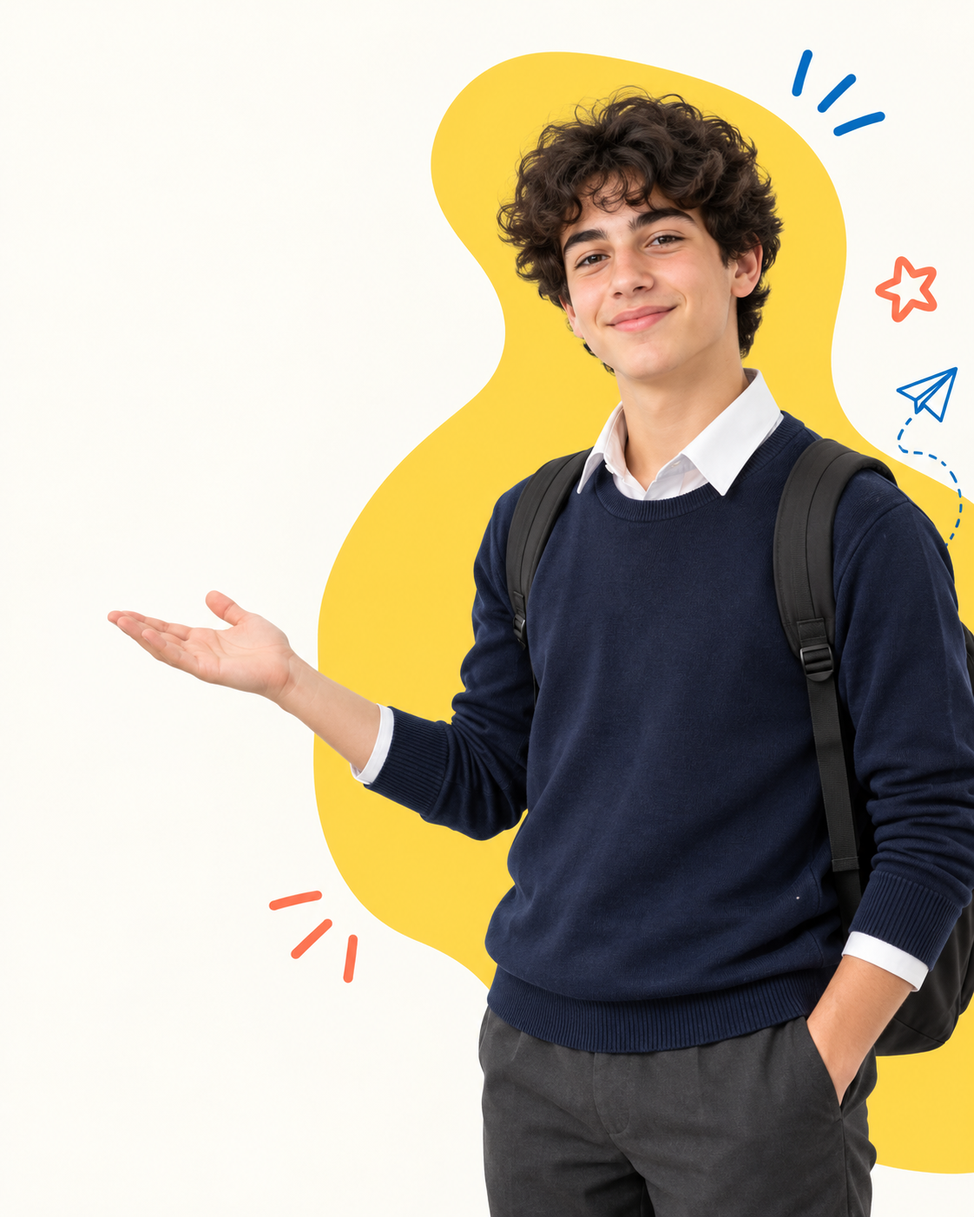
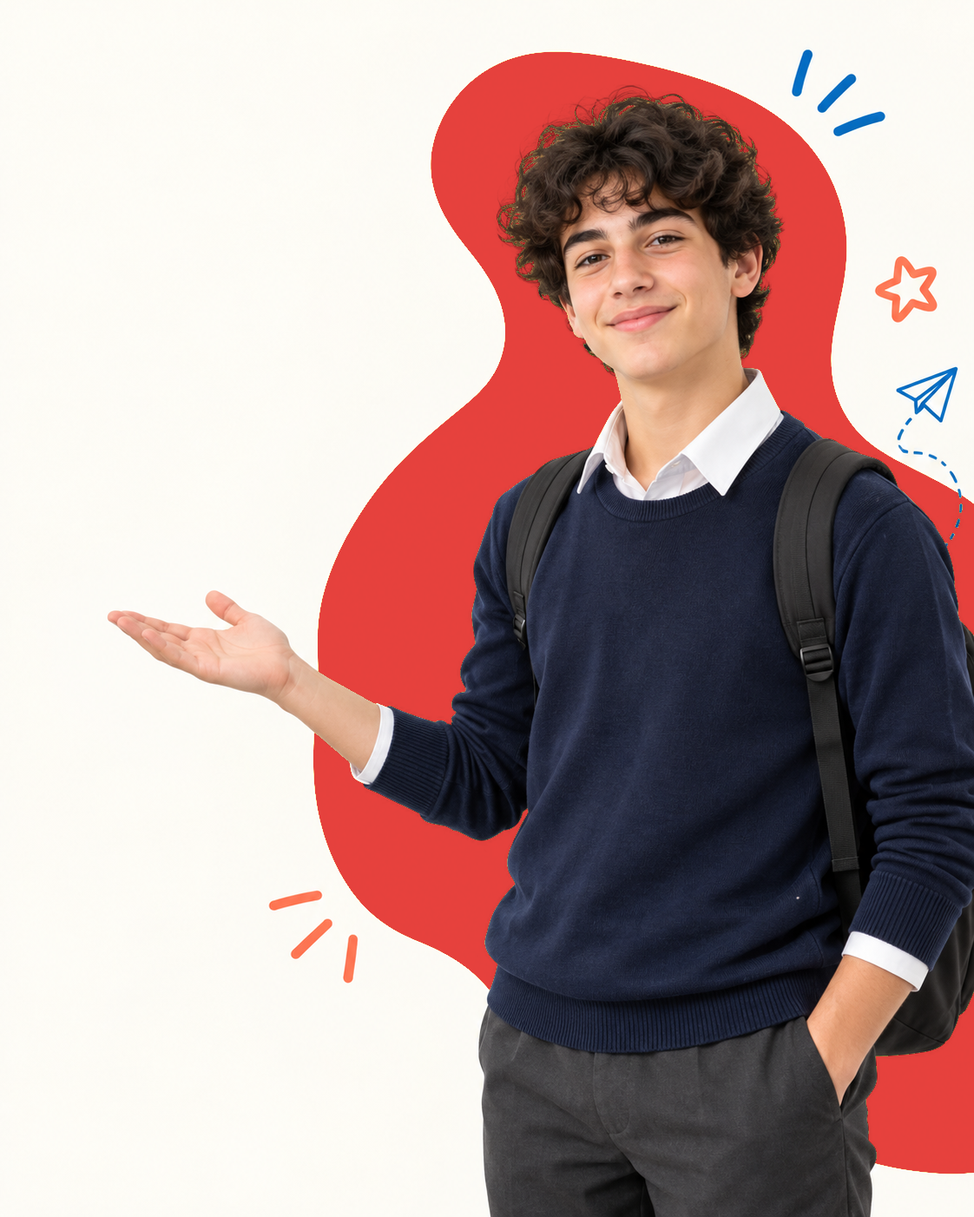
Switch palette: yellow to red, navy/blue to anthracite and light grey
Recolor CSS tokens and tints, the hero blob and enrollment ellipse images, and the quote contour SVG; use white text on red surfaces.

Changed region(s): [[0.3119, 0.0307, 1.0, 0.6134], [0.3119, 0.5827, 0.5303, 0.8281], [0.8734, 0.7974, 1.0, 0.9815]]

diff --git a/styles.css b/styles.css
@@ -1,12 +1,13 @@
 :root {
-  --ink: #202132;
-  --muted: #6b6e7e;
-  --blue: #4b58d9;
-  --blue-dark: #333eaa;
-  --yellow: #ffd456;
-  --paper: #fbfcff;
-  --line: #e5e8f2;
-  --navy: #111638;
+  --ink: #1f2023;
+  --muted: #6d6f74;
+  --blue: #3a3e44;
+  --blue-dark: #2a2d32;
+  --yellow: #e5413d;
+  --yellow-soft: #ff7a75;
+  --paper: #fbfbfc;
+  --line: #e6e7ea;
+  --navy: #2a2d32;
   --font-body: "DM Sans", Arial, sans-serif;
   --font-display: "Outfit", "DM Sans", sans-serif;
   --wrap: 1180px;
@@ -19,65 +20,65 @@ img { display: block; max-width: 100%; }
 a { color: inherit; text-decoration: none; }
 button { font: inherit; }
 .wrap { width: min(var(--wrap), calc(100% - 56px)); margin-inline: auto; }
-.skip-link { position: fixed; top: -60px; left: 12px; z-index: 99; padding: 10px 16px; background: var(--yellow); border-radius: 8px; color: var(--ink); }
+.skip-link { position: fixed; top: -60px; left: 12px; z-index: 99; padding: 10px 16px; background: var(--yellow); border-radius: 8px; color: #fff; }
 .skip-link:focus { top: 12px; }
 
 .site-header { position: relative; z-index: 20; background: var(--paper); }
-.topline { min-height: 34px; padding: 4px max(28px, calc((100% - var(--wrap)) / 2)); display: flex; justify-content: space-between; align-items: center; background: #eef0ff; color: #4a4d67; font-size: 11px; }
+.topline { min-height: 34px; padding: 4px max(28px, calc((100% - var(--wrap)) / 2)); display: flex; justify-content: space-between; align-items: center; background: #eff0f2; color: #4c4e53; font-size: 11px; }
 .topline a { display: flex; gap: 7px; align-items: center; }
 .topline b { color: var(--blue-dark); font-weight: 700; }
 .nav { min-height: 78px; display: flex; align-items: center; justify-content: space-between; gap: 26px; }
 .brand { flex: 0 0 160px; }
 .brand img { width: 150px; height: 58px; object-fit: contain; object-position: left center; }
-.nav-links { display: flex; align-items: center; justify-content: flex-end; gap: clamp(14px, 2vw, 29px); font-size: 12px; font-weight: 600; color: #494b5c; }
+.nav-links { display: flex; align-items: center; justify-content: flex-end; gap: clamp(14px, 2vw, 29px); font-size: 12px; font-weight: 600; color: #4a4c50; }
 .nav-links > a:not(.nav-cta) { transition: color .2s ease; }
 .nav-links > a:not(.nav-cta):hover { color: var(--blue); }
-.nav-cta { padding: 11px 17px; border-radius: 12px; background: var(--blue); color: white; box-shadow: 0 8px 18px #4b58d92c; white-space: nowrap; }
-.nav-cta span { padding-left: 8px; color: var(--yellow); }
+.nav-cta { padding: 11px 17px; border-radius: 12px; background: var(--blue); color: white; box-shadow: 0 8px 18px #3a3e442c; white-space: nowrap; }
+.nav-cta span { padding-left: 8px; color: var(--yellow-soft); }
 .menu-toggle { display: none; }
 
 .hero { min-height: 500px; display: grid; grid-template-columns: 1fr .9fr; align-items: center; gap: 34px; position: relative; padding-top: 12px; padding-bottom: 48px; }
 .hero-copy { position: relative; z-index: 3; max-width: 570px; padding: 26px 0 14px; }
 .eyebrow { display: inline-flex; align-items: center; gap: 8px; color: var(--blue); font-size: 10px; font-weight: 800; letter-spacing: .14em; line-height: 1.4; }
-.eyebrow-dot { width: 7px; height: 7px; display: inline-block; border-radius: 50%; background: var(--yellow); box-shadow: 0 0 0 4px #ffd45636; }
+.eyebrow-dot { width: 7px; height: 7px; display: inline-block; border-radius: 50%; background: var(--yellow); box-shadow: 0 0 0 4px #e5413d36; }
 .hero h1 { margin: 22px 0 14px; max-width: 570px; font: 700 clamp(42px, 5.2vw, 68px)/1.06 var(--font-display); letter-spacing: -.04em; }
 .hero h1 span, .section-heading h2 span, .path-copy h2 span { color: var(--blue); }
-.hero-copy > p { max-width: 480px; margin: 0; color: #686b78; font-size: 14px; line-height: 1.8; }
+.hero-copy > p { max-width: 480px; margin: 0; color: #6a6c71; font-size: 14px; line-height: 1.8; }
 .hero-actions { margin-top: 25px; display: flex; align-items: center; flex-wrap: wrap; gap: 18px; }
 .button { min-height: 46px; display: inline-flex; align-items: center; justify-content: center; gap: 13px; padding: 0 21px; border: 0; border-radius: 12px; font-size: 12px; font-weight: 800; transition: transform .2s ease, box-shadow .2s ease; }
-.button:hover { transform: translateY(-2px); box-shadow: 0 10px 22px #1d23451c; }
-.button-yellow { background: var(--yellow); color: #23243a; box-shadow: 0 8px 18px #ffd45643; }
+.button:hover { transform: translateY(-2px); box-shadow: 0 10px 22px #1a1b1e1c; }
+.button-yellow { background: var(--yellow); color: #fff; box-shadow: 0 8px 18px #e5413d43; }
 .button-yellow span { font-size: 17px; }
 .watch-link { display: inline-flex; align-items: center; gap: 9px; font-size: 11px; font-weight: 700; }
 .play-mini { display: grid; width: 25px; height: 25px; place-items: center; border-radius: 50%; background: var(--blue); color: #fff; font-size: 9px; padding-left: 2px; }
-.hero-proof { display: flex; align-items: center; gap: 11px; margin-top: 30px; color: #858798; font-size: 10px; line-height: 1.4; }
+.hero-proof { display: flex; align-items: center; gap: 11px; margin-top: 30px; color: #86888d; font-size: 10px; line-height: 1.4; }
 .proof-avatars { display: flex; padding-left: 3px; }
-.proof-avatars i { width: 27px; height: 27px; display: grid; place-items: center; margin-left: -3px; border: 2px solid var(--paper); border-radius: 50%; background: #ffd4aa; color: #272942; font-size: 9px; font-style: normal; font-weight: 800; }
+.proof-avatars i { width: 27px; height: 27px; display: grid; place-items: center; margin-left: -3px; border: 2px solid var(--paper); border-radius: 50%; background: #ffd4aa; color: #2a2b2f; font-size: 9px; font-style: normal; font-weight: 800; }
 .proof-avatars i:nth-child(2) { background: #a5d2dd; }
 .proof-avatars i:nth-child(3) { background: #ee9f8c; }
 .hero-art { position: relative; min-height: 430px; display: flex; align-items: center; justify-content: center; isolation: isolate; }
 .hero-sun { display: none; }
-.hero-sun::before { content: ""; position: absolute; inset: 16px; border: 2px solid #fff3bf8a; border-radius: 48% 52% 55% 45% / 55% 44% 56% 45%; }
+.hero-sun::before { content: ""; position: absolute; inset: 16px; border: 2px solid #fdd9d78a; border-radius: 48% 52% 55% 45% / 55% 44% 56% 45%; }
 .hero-image-frame { position: relative; z-index: 0; width: min(100%, 450px); height: 480px; margin-top: 0; overflow: visible; border-radius: 0; background: transparent; box-shadow: none; }
 .hero-image-frame img { width: 100%; height: 100%; object-fit: contain; object-position: center; mix-blend-mode: multiply; }
-.hero-note { position: absolute; z-index: 2; left: -2%; bottom: 17px; display: flex; align-items: center; gap: 9px; padding: 12px 15px; border: 1px solid #fff; border-radius: 14px; background: #fff; box-shadow: 0 12px 35px #24243e24; font-size: 11px; }
+.hero-note { position: absolute; z-index: 2; left: -2%; bottom: 17px; display: flex; align-items: center; gap: 9px; padding: 12px 15px; border: 1px solid #fff; border-radius: 14px; background: #fff; box-shadow: 0 12px 35px #1a1b1e24; font-size: 11px; }
 .hero-note b { color: var(--blue); }
-.note-star { display: grid; width: 28px; height: 28px; place-items: center; border-radius: 9px; background: #fff3c8; color: #df9d00; font-size: 18px; }
-.hero-bubble { position: absolute; right: 1%; bottom: 41px; width: 84px; height: 84px; display: flex; flex-direction: column; align-items: center; justify-content: center; border: 5px solid var(--paper); border-radius: 50%; background: var(--yellow); color: #24243d; font: 800 22px/1 var(--font-display); text-align: center; transform: rotate(8deg); }
+.note-star { display: grid; width: 28px; height: 28px; place-items: center; border-radius: 9px; background: #fde4e3; color: #e5413d; font-size: 18px; }
+.hero-bubble { position: absolute; right: 1%; bottom: 41px; width: 84px; height: 84px; display: flex; flex-direction: column; align-items: center; justify-content: center; border: 5px solid var(--paper); border-radius: 50%; background: var(--yellow); color: #fff; font: 800 22px/1 var(--font-display); text-align: center; transform: rotate(8deg); }
 .hero-bubble span { margin-top: 4px; font: 700 8px/1.1 var(--font-body); text-transform: uppercase; letter-spacing: .06em; }
 .hero-doodle { display: none; position: absolute; z-index: 1; color: #fa6c4b; font-size: 46px; line-height: 1; }
 .doodle-a { top: 14%; right: 0; }
 .doodle-b { bottom: 14%; left: 4%; font-size: 34px; }
 .hero-scribble { position: absolute; left: -95px; top: 95px; width: 57px; height: 80px; border: 9px solid var(--blue); border-right-color: transparent; border-radius: 50%; transform: rotate(-25deg); opacity: .8; }
 
-.stats-band { position: relative; overflow: hidden; min-height: 112px; background: linear-gradient(105deg, #5867ec, #3e49bd); color: #fff; }
-.stats-band::before { content: ""; position: absolute; inset: -70px 0; opacity: .12; background: repeating-radial-gradient(ellipse at 48% 50%, transparent 0 22px, #dce0ff 24px 25px, transparent 27px 43px); transform: rotate(-7deg); }
+.stats-band { position: relative; overflow: hidden; min-height: 112px; background: linear-gradient(105deg, #4a4e55, #2a2d32); color: #fff; }
+.stats-band::before { content: ""; position: absolute; inset: -70px 0; opacity: .12; background: repeating-radial-gradient(ellipse at 48% 50%, transparent 0 22px, #e2e3e6 24px 25px, transparent 27px 43px); transform: rotate(-7deg); }
 .stats-inner { position: relative; display: grid; grid-template-columns: repeat(4, 1fr); min-height: 112px; align-items: center; }
 .stat { display: flex; flex-direction: column; align-items: center; justify-content: center; min-height: 61px; border-right: 1px solid #ffffff2c; }
 .stat:last-child { border-right: 0; }
 .stat strong { font: 800 32px/.98 var(--font-display); letter-spacing: -.03em; }
-.stat strong span { color: var(--yellow); }
-.stat small { margin-top: 6px; color: #e1e4ff; font-size: 10px; }
+.stat strong span { color: var(--yellow-soft); }
+.stat small { margin-top: 6px; color: #e4e5e8; font-size: 10px; }
 .band-orb { position: absolute; z-index: 1; width: 72px; height: 72px; border-radius: 50%; background: var(--yellow); }
 .orb-left { left: -31px; bottom: -39px; }
 .orb-right { right: -28px; top: -34px; width: 52px; height: 52px; }
@@ -87,70 +88,70 @@ button { font: inherit; }
 .section-heading h2 { margin: 10px 0 7px; font: 700 clamp(31px, 3.3vw, 43px)/1.13 var(--font-display); letter-spacing: -.035em; }
 .section-heading p { margin: 0 auto; max-width: 650px; color: var(--muted); font-size: 12px; line-height: 1.7; }
 .benefit-grid { display: grid; grid-template-columns: repeat(3, 1fr); gap: 17px; }
-.benefit-card { min-height: 177px; padding: 22px 21px 19px; border: 1px solid #e6e9f4; border-radius: 13px; background: #fff; box-shadow: 0 7px 20px #17204a0a; text-align: center; transition: transform .2s ease, box-shadow .2s ease; }
-.benefit-card:hover { transform: translateY(-3px); box-shadow: 0 14px 30px #17204a12; }
-.icon-tile { width: 41px; height: 41px; display: grid; place-items: center; margin-inline: auto; border-radius: 12px; color: white; box-shadow: 0 5px 12px #292e4215; }
+.benefit-card { min-height: 177px; padding: 22px 21px 19px; border: 1px solid #e7e8eb; border-radius: 13px; background: #fff; box-shadow: 0 7px 20px #1a1b1e0a; text-align: center; transition: transform .2s ease, box-shadow .2s ease; }
+.benefit-card:hover { transform: translateY(-3px); box-shadow: 0 14px 30px #1a1b1e12; }
+.icon-tile { width: 41px; height: 41px; display: grid; place-items: center; margin-inline: auto; border-radius: 12px; color: white; box-shadow: 0 5px 12px #1a1b1e15; }
 .icon-tile svg { display: block; width: 22px; height: 22px; fill: none; stroke: currentColor; stroke-width: 1.8; stroke-linecap: round; stroke-linejoin: round; }
-.violet { background: #aa49fa; } .lime { background: #a9cf40; } .blue { background: #58a4e7; } .pink { background: #f05caa; } .coral { background: #ff6e50; } .yellow { background: #ffc948; }
+.violet { background: #aa49fa; } .lime { background: #a9cf40; } .blue { background: #58a4e7; } .pink { background: #f05caa; } .coral { background: #ff6e50; } .yellow { background: #e5413d; }
 .benefit-card h3 { margin: 13px 0 5px; font: 700 15px/1.25 var(--font-display); }
-.benefit-card p { margin: 0; color: #747787; font-size: 10px; line-height: 1.6; }
+.benefit-card p { margin: 0; color: #75777c; font-size: 10px; line-height: 1.6; }
 
-.about-section { position: relative; padding: 78px max(28px, calc((100% - var(--wrap)) / 2)) 0; background: #f7f8fc; }
+.about-section { position: relative; padding: 78px max(28px, calc((100% - var(--wrap)) / 2)) 0; background: #f5f5f6; }
 .about-section > * { position: relative; z-index: 1; width: 100%; max-width: var(--wrap); margin-inline: auto; }
 .about-section > .section-heading { max-width: 710px; }
 .about-section .section-heading .eyebrow { display: none; }
 .compact { margin-bottom: 25px; }
 .compact h2 { font-size: clamp(32px, 3.2vw, 40px); }
 .compact p { font-size: 12px; }
-.about-visual { position: relative; z-index: 3; overflow: hidden; width: min(100%, 1120px); aspect-ratio: 1.83 / 1; min-height: 0; border-radius: 20px; background: #dce2eb; box-shadow: 0 18px 45px #161b2d21; }
+.about-visual { position: relative; z-index: 3; overflow: hidden; width: min(100%, 1120px); aspect-ratio: 1.83 / 1; min-height: 0; border-radius: 20px; background: #e0e1e4; box-shadow: 0 18px 45px #1a1b1e21; }
 .about-visual > video { position: absolute; inset: 0; width: 100%; height: 100%; object-fit: cover; background: #333; }
-.about-visual::after { content: ""; position: absolute; inset: 0; pointer-events: none; background: linear-gradient(0deg, #11182b55, #11182b17); }
+.about-visual::after { content: ""; position: absolute; inset: 0; pointer-events: none; background: linear-gradient(0deg, #1a1b1e55, #1a1b1e17); }
 .image-caption { position: absolute; z-index: 1; left: 24px; bottom: 22px; display: flex; align-items: center; gap: 12px; color: #fff; }
-.caption-mark { width: 40px; height: 40px; display: grid; place-items: center; border-radius: 12px; background: var(--yellow); color: var(--ink); font: 700 18px var(--font-display); }
+.caption-mark { width: 40px; height: 40px; display: grid; place-items: center; border-radius: 12px; background: var(--yellow); color: #fff; font: 700 18px var(--font-display); }
 .image-caption b, .image-caption small { display: block; }
 .image-caption b { font: 700 14px var(--font-display); }
-.image-caption small { color: #eff0f8; font-size: 10px; }
-.video-play { position: absolute; z-index: 2; top: 50%; left: 50%; width: 72px; height: 72px; display: grid; place-items: center; padding-left: 4px; transform: translate(-50%, -50%); border: 0; border-radius: 50%; background: #fff; color: var(--blue); box-shadow: 0 8px 28px #11182b3b; cursor: pointer; }
+.image-caption small { color: #f0f0f2; font-size: 10px; }
+.video-play { position: absolute; z-index: 2; top: 50%; left: 50%; width: 72px; height: 72px; display: grid; place-items: center; padding-left: 4px; transform: translate(-50%, -50%); border: 0; border-radius: 50%; background: #fff; color: var(--blue); box-shadow: 0 8px 28px #1a1b1e3b; cursor: pointer; }
 .video-play span { font-size: 21px; }
 .video-play:hover { transform: translate(-50%, -50%) scale(1.07); }
 .about-visual.is-playing .video-play { display: none; }
 
-.path-section { position: relative; margin-top: 74px; background: var(--yellow) url("assets/figma-enrollment-yellow.png") center / 100% 100% no-repeat; }
+.path-section { position: relative; margin-top: 74px; background: var(--yellow); }
 .path-section::before { content: ""; position: absolute; z-index: 1; pointer-events: none; left: 0; top: -345px; width: 595px; height: 944px; background: radial-gradient(circle 85px at 125px 470px, var(--yellow) 99%, transparent 100%), url("assets/figma-enrollment-ellipse.png") center / 100% 100% no-repeat; }
 .path-inner { position: relative; z-index: 2; display: grid; grid-template-columns: .95fr 1.05fr; gap: 72px; align-items: start; min-height: 836px; padding-top: 65px; padding-bottom: 0; }
 .path-photo { position: relative; height: 771px; min-height: 0; }
 .path-photo img { position: absolute; z-index: 1; left: min(-28px, calc((var(--wrap) - 100vw) / 2)); bottom: 0; width: 569px; max-width: none; height: 836px; object-fit: contain; object-position: left bottom; }
-.path-photo-label { position: absolute; left: 15px; bottom: 22px; padding: 13px 17px; border-radius: 13px; background: #fff; box-shadow: 0 10px 28px #171a3826; }
+.path-photo-label { position: absolute; left: 15px; bottom: 22px; padding: 13px 17px; border-radius: 13px; background: #fff; box-shadow: 0 10px 28px #1a1b1e26; }
 .path-photo-label span { display: block; margin-bottom: 4px; color: var(--blue); font-size: 8px; font-weight: 800; letter-spacing: .1em; }
 .path-photo-label b { font: 700 17px/1.08 var(--font-display); }
 .path-star { position: absolute; top: 15px; right: 3%; display: grid; width: 68px; height: 68px; place-items: center; border-radius: 50%; background: var(--yellow); color: #fff; font-size: 42px; }
 .path-copy { max-width: 535px; }
-.path-copy .eyebrow { color: #68500b; }
-.path-copy h2 { margin: 12px 0 9px; font: 700 clamp(34px, 4vw, 49px)/1.03 var(--font-display); letter-spacing: -.04em; }
+.path-copy .eyebrow { color: #ffe3e1; }
+.path-copy h2 { margin: 12px 0 9px; color: #fff; font: 700 clamp(34px, 4vw, 49px)/1.03 var(--font-display); letter-spacing: -.04em; }
 .path-copy h2 span { color: var(--blue-dark); }
-.path-copy > p { margin: 0 0 22px; color: #5d512c; font-size: 12px; }
+.path-copy > p { margin: 0 0 22px; color: #fff1f0; font-size: 12px; }
 .steps { margin: 0; padding: 0; list-style: none; display: grid; gap: 18px; }
-.steps li { position: relative; min-height: 88px; display: flex; align-items: center; gap: 18px; padding: 12px 24px; border-radius: 10px; background: #fff; box-shadow: 0 4px 12px #6f5b1711; }
+.steps li { position: relative; min-height: 88px; display: flex; align-items: center; gap: 18px; padding: 12px 24px; border-radius: 10px; background: #fff; box-shadow: 0 4px 12px #5a1a1822; }
 .steps li:not(:last-child)::after { content: ""; position: absolute; z-index: 2; right: -39px; top: 50%; width: 34px; height: 84px; background: url("assets/step-arrow-right.svg") center / contain no-repeat; pointer-events: none; }
 .steps li:nth-child(even):not(:last-child)::after { right: auto; left: -39px; background-image: url("assets/step-arrow-left.svg"); }
 .steps li > b { flex: 0 0 60px; padding-right: 18px; border-right: 1px solid #e8e8ed; font: 800 27px var(--font-display); }
 .steps strong, .steps small { display: block; }
 .steps strong { font: 700 17px var(--font-display); }
-.steps small { margin-top: 2px; color: #7a7c87; font-size: 11px; }
+.steps small { margin-top: 2px; color: #7b7d82; font-size: 11px; }
 
 .programs-section { padding-top: 91px; }
 .program-grid { display: grid; grid-template-columns: repeat(3, 1fr); gap: 19px; }
-.program-card { overflow: hidden; border: 1px solid #e6e9f3; border-radius: 14px; background: #fff; box-shadow: 0 12px 30px #1b20400c; }
-.program-image { position: relative; display: block; height: 185px; overflow: hidden; background: #e5e7f6; }
+.program-card { overflow: hidden; border: 1px solid #e7e8eb; border-radius: 14px; background: #fff; box-shadow: 0 12px 30px #1a1b1e0c; }
+.program-image { position: relative; display: block; height: 185px; overflow: hidden; background: #e8e9ec; }
 .program-image img { width: 100%; height: 100%; object-fit: cover; transition: transform .35s ease; }
 .program-image:hover img { transform: scale(1.04); }
 .image-two img { object-position: 65% 50%; }
 .image-three img { object-position: 50% 55%; }
-.image-tag { position: absolute; left: 12px; bottom: 12px; padding: 6px 9px; border-radius: 7px; background: var(--yellow); color: #282a42; font-size: 8px; font-weight: 800; letter-spacing: .07em; }
+.image-tag { position: absolute; left: 12px; bottom: 12px; padding: 6px 9px; border-radius: 7px; background: var(--yellow); color: #fff; font-size: 8px; font-weight: 800; letter-spacing: .07em; }
 .program-body { padding: 17px 18px 19px; }
 .program-kicker { color: var(--blue); font-size: 8px; font-weight: 800; letter-spacing: .12em; }
 .program-body h3 { margin: 7px 0 7px; font: 700 20px/1.1 var(--font-display); }
-.program-body p { min-height: 56px; margin: 0; color: #747787; font-size: 10px; line-height: 1.65; }
+.program-body p { min-height: 56px; margin: 0; color: #75777c; font-size: 10px; line-height: 1.65; }
 .read-more { display: inline-flex; align-items: center; gap: 8px; margin-top: 15px; color: var(--blue); font-size: 10px; font-weight: 800; }
 .read-more span { font-size: 16px; transition: transform .2s ease; }
 .read-more:hover span { transform: translateX(4px); }
@@ -158,33 +159,33 @@ button { font: inherit; }
 
 .testimonial-section { padding-top: 70px; padding-bottom: 0; }
 .testimonial-heading { margin-bottom: 26px; }
-.quote-section { position: relative; isolation: isolate; overflow: visible; width: min(calc(100% - 100px), 1120px); min-height: 235px; display: flex; flex-direction: column; justify-content: center; margin: 0 auto; padding: 40px 7%; border-radius: 20px; color: #fff; box-shadow: 0 17px 34px #3e49bd20; }
-.quote-section::before { content: ""; position: absolute; z-index: 1; inset: 0; border-radius: inherit; background: url("assets/quote-contours.svg") center / cover no-repeat, linear-gradient(105deg, #5362e6, #3845b5); }
+.quote-section { position: relative; isolation: isolate; overflow: visible; width: min(calc(100% - 100px), 1120px); min-height: 235px; display: flex; flex-direction: column; justify-content: center; margin: 0 auto; padding: 40px 7%; border-radius: 20px; color: #fff; box-shadow: 0 17px 34px #2a2d3220; }
+.quote-section::before { content: ""; position: absolute; z-index: 1; inset: 0; border-radius: inherit; background: url("assets/quote-contours.svg") center / cover no-repeat, linear-gradient(105deg, #4a4e55, #2a2d32); }
 .quote-section::after { content: ""; position: absolute; z-index: 0; left: -42px; bottom: -42px; width: 86px; height: 86px; border-radius: 50%; background: var(--yellow); }
-.quote-mark { position: absolute; z-index: 2; top: 12px; left: 24px; color: #171a2c; font: 800 76px/.8 Georgia, serif; }
-.quote-section > p { position: relative; z-index: 2; max-width: 900px; margin: 0 auto; color: #f7f8ff; font-size: clamp(15px, 1.4vw, 18px); line-height: 1.65; text-align: center; }
-.quote-section > p b { color: var(--yellow); }
+.quote-mark { position: absolute; z-index: 2; top: 12px; left: 24px; color: #1c1d20; font: 800 76px/.8 Georgia, serif; }
+.quote-section > p { position: relative; z-index: 2; max-width: 900px; margin: 0 auto; color: #f7f7f8; font-size: clamp(15px, 1.4vw, 18px); line-height: 1.65; text-align: center; }
+.quote-section > p b { color: var(--yellow-soft); }
 .quote-attribution { position: relative; z-index: 2; display: flex; flex-direction: column; align-items: center; justify-content: center; gap: 3px; margin: -29px auto 0; text-align: center; }
-.quote-seal { width: 64px; height: 64px; display: grid; place-items: center; overflow: hidden; border: 4px solid var(--paper); border-radius: 50%; background: #fff; box-shadow: 0 5px 16px #11182b1a; }
+.quote-seal { width: 64px; height: 64px; display: grid; place-items: center; overflow: hidden; border: 4px solid var(--paper); border-radius: 50%; background: #fff; box-shadow: 0 5px 16px #1a1b1e1a; }
 .quote-seal img { width: 82%; height: 82%; object-fit: contain; }
 .quote-attribution b, .quote-attribution small { display: block; }
 .quote-attribution b { font-size: 12px; }
-.quote-attribution small { color: #858798; font-size: 8px; }
+.quote-attribution small { color: #86888d; font-size: 8px; }
 .quote-orb { position: absolute; z-index: 0; right: 4%; top: -27px; width: 58px; height: 58px; border-radius: 50%; background: var(--yellow); }
 
 .news-section { padding-top: 83px; padding-bottom: 84px; }
 .news-heading { margin-bottom: 25px; }
-.news-card { display: grid; grid-template-columns: .85fr 1fr; align-items: center; gap: 28px; max-width: 880px; margin: auto; padding: 14px; border: 1px solid var(--line); border-radius: 15px; background: #fff; box-shadow: 0 10px 28px #1b20400c; }
+.news-card { display: grid; grid-template-columns: .85fr 1fr; align-items: center; gap: 28px; max-width: 880px; margin: auto; padding: 14px; border: 1px solid var(--line); border-radius: 15px; background: #fff; box-shadow: 0 10px 28px #1a1b1e0c; }
 .news-card > img { width: 100%; height: 190px; object-fit: cover; border-radius: 10px; }
 .news-card > div { padding: 8px 17px 8px 0; }
 .news-label { color: var(--blue); font-size: 8px; font-weight: 800; letter-spacing: .12em; }
 .news-card h3 { margin: 7px 0; font: 700 22px/1.15 var(--font-display); }
 .news-card p { margin: 0; color: var(--muted); font-size: 11px; }
 
-.footer { background: var(--navy); color: #f6f7ff; }
+.footer { background: var(--navy); color: #f6f6f7; }
 .footer-main { display: grid; grid-template-columns: 1.45fr .8fr .95fr 1.25fr; gap: 50px; padding-top: 62px; padding-bottom: 58px; }
 .footer-brand img { width: 172px; height: 67px; padding: 5px 8px; border-radius: 8px; background: #fff; object-fit: contain; }
-.footer-brand p { max-width: 310px; margin: 20px 0; color: #cbd0e3; font-size: 14px; line-height: 1.65; }
+.footer-brand p { max-width: 310px; margin: 20px 0; color: #cfd1d5; font-size: 14px; line-height: 1.65; }
 .social-links { display: flex; gap: 12px; }
 .social-links a { width: 36px; height: 36px; display: grid; place-items: center; border-radius: 50%; background: #ffffff1c; color: #fff; }
 .social-links a:hover { background: var(--blue); }
@@ -192,14 +193,14 @@ button { font: inherit; }
 .social-links .icon-dot { fill: currentColor; stroke: none; }
 .footer-column { display: flex; flex-direction: column; align-items: flex-start; gap: 12px; }
 .footer-column h3 { margin: 5px 0 8px; font: 700 18px var(--font-display); }
-.footer-column a { color: #cbd0e3; font-size: 14px; line-height: 1.55; }
+.footer-column a { color: #cfd1d5; font-size: 14px; line-height: 1.55; }
 .contact-column a { display: flex; align-items: flex-start; gap: 10px; }
 .contact-column svg { flex: 0 0 18px; width: 18px; height: 18px; margin-top: 2px; stroke: currentColor; stroke-width: 1.7; stroke-linecap: round; stroke-linejoin: round; }
-.footer-column a:hover, .footer-bottom a:hover { color: var(--yellow); }
+.footer-column a:hover, .footer-bottom a:hover { color: var(--yellow-soft); }
 .contact-column a:first-of-type { margin-bottom: 4px; }
-.footer-bottom { border-top: 1px solid #ffffff20; color: #aeb2ca; font-size: 12px; }
+.footer-bottom { border-top: 1px solid #ffffff20; color: #b3b5ba; font-size: 12px; }
 .footer-bottom .wrap { min-height: 52px; display: flex; align-items: center; justify-content: space-between; }
-.footer-bottom a { color: #d8daf0; }
+.footer-bottom a { color: #dcdde1; }
 
 @media (max-width: 950px) {
   .nav-links { gap: 12px; font-size: 11px; }
@@ -252,9 +253,9 @@ button { font: inherit; }
   .menu-toggle[aria-expanded="true"] span:first-child { transform: translateY(7px) rotate(45deg); }
   .menu-toggle[aria-expanded="true"] span:nth-child(2) { opacity: 0; }
   .menu-toggle[aria-expanded="true"] span:last-child { transform: translateY(-7px) rotate(-45deg); }
-  .nav-links { position: absolute; top: 100%; left: 0; right: 0; display: none; align-items: stretch; gap: 0; padding: 8px 18px 17px; border-top: 1px solid var(--line); background: var(--paper); box-shadow: 0 18px 25px #1f25401b; font-size: 13px; }
+  .nav-links { position: absolute; top: 100%; left: 0; right: 0; display: none; align-items: stretch; gap: 0; padding: 8px 18px 17px; border-top: 1px solid var(--line); background: var(--paper); box-shadow: 0 18px 25px #1a1b1e1b; font-size: 13px; }
   .nav-links.is-open { display: flex; flex-direction: column; }
-  .nav-links > a:not(.nav-cta) { padding: 11px 4px; border-bottom: 1px solid #e8eaf2; }
+  .nav-links > a:not(.nav-cta) { padding: 11px 4px; border-bottom: 1px solid #e9eaec; }
   .nav-cta { margin-top: 12px; text-align: center; }
   .hero { grid-template-columns: 1fr; gap: 0; padding-top: 35px; padding-bottom: 30px; }
   .hero-copy { max-width: none; padding-top: 0; }
@@ -340,7 +341,7 @@ button { font: inherit; }
   .contact-column h3 { justify-self: center; }
   .contact-column a { align-items: center; gap: 12px; }
   .contact-column a:first-of-type { margin-bottom: 0; }
-  .contact-column svg { box-sizing: content-box; flex: 0 0 16px; width: 16px; height: 16px; margin-top: 0; padding: 9px; border-radius: 50%; background: #ffffff1c; color: var(--yellow); }
+  .contact-column svg { box-sizing: content-box; flex: 0 0 16px; width: 16px; height: 16px; margin-top: 0; padding: 9px; border-radius: 50%; background: #ffffff1c; color: var(--yellow-soft); }
   .footer-bottom .wrap { min-height: 50px; font-size: 11px; }
 }
 

diff --git a/index.html b/index.html
@@ -3,7 +3,7 @@
 <head>
   <meta charset="utf-8">
   <meta name="viewport" content="width=device-width, initial-scale=1">
-  <meta name="theme-color" content="#4855d8">
+  <meta name="theme-color" content="#2a2d32">
   <meta name="description" content="Arya Koleji; ortaokul ve lise öğrencilerini bilimsel düşünme, yenilikçi öğrenme ve bireysel gelişim odağında geleceğe hazırlar.">
   <title>Arya Koleji | Geleceği Birlikte İnşa Ediyoruz</title>
   <link rel="preconnect" href="https://fonts.googleapis.com">
